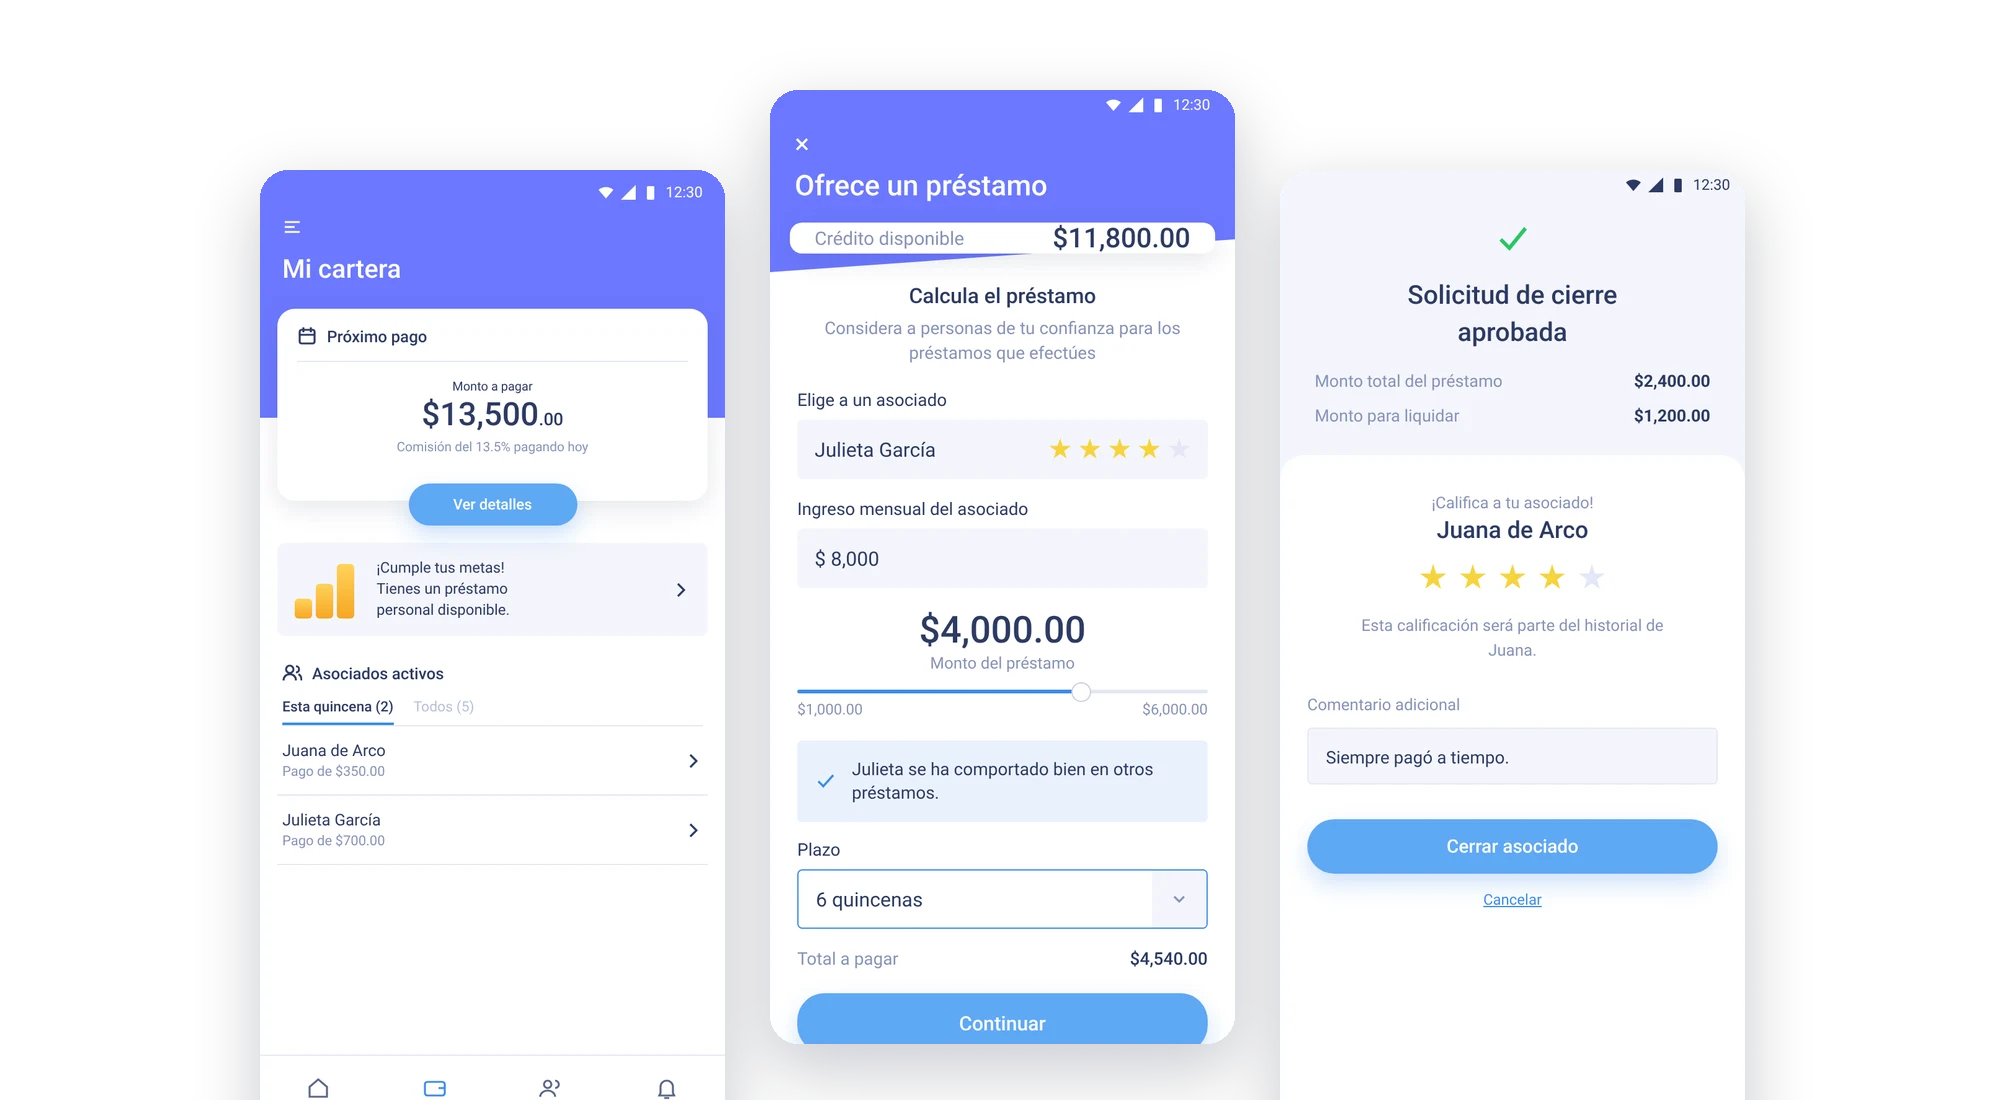
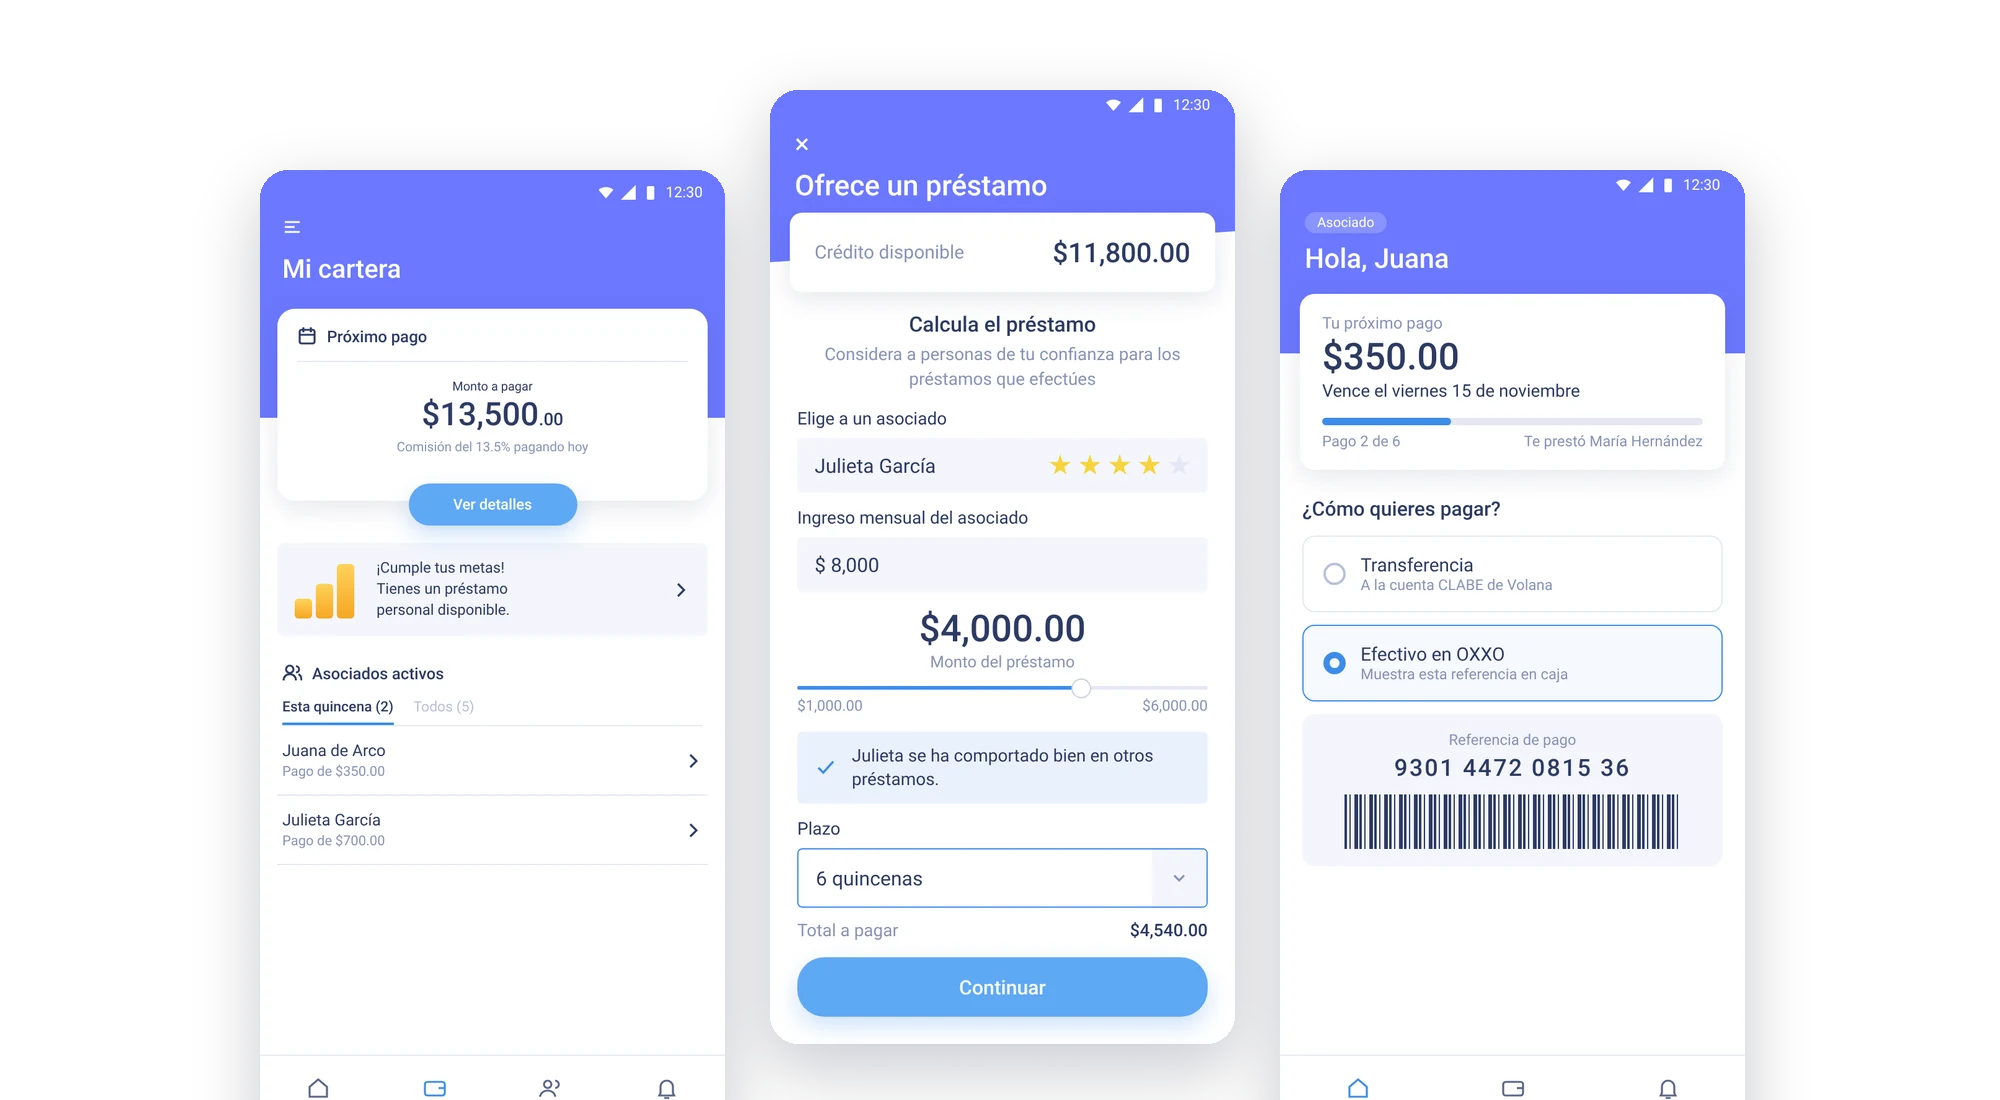
Volana: both roles in the story (lender and associate), associate pay and Veriff sign-up screens, path-up and over-borrowing notes
Claude-Session: https://claude.ai/code/session_014oW9rryPzLSdmVNbG2KxAd

diff --git a/case-studies/volana/index.html b/case-studies/volana/index.html
@@ -51,7 +51,7 @@
     <main id="main" class="cs-main" tabindex="-1">
 
       <div class="cs-hero">
-        <img src="img/hero.webp" width="2000" height="1100" alt="Three Volana screens: the borrower’s wallet, offering a loan to a member of the circle, and rating a member when a loan closes.">
+        <img src="img/hero.webp" width="2000" height="1100" alt="Three Volana screens: the lender’s wallet, offering a loan to an associate, and an associate’s next payment with an OXXO reference.">
       </div>
 
       <!-- 01. OVERVIEW -->
@@ -89,31 +89,31 @@
         <h2 class="cs-title" id="challenge" tabindex="-1">Every payment was a trip with cash</h2>
         <div class="cs-intro">
           <p class="cs-lead">The risk wasn’t one trip. It was a daily route.</p>
-          <p>A borrower took out a loan of around MXN 20,000 and shared it with people they trusted, their credit circle. Then they collected each payment themselves. In focus groups we learned that some spent the whole day on public transport, picking up cash from their circle and a new member’s documents to sign them up at the branch.</p>
+          <p>Volana lent around MXN 20,000 to one person, who shared it with people they trusted: their credit circle of associates. That lender then collected each payment themselves. In focus groups we learned that some spent the whole day on public transport, picking up cash from their associates and a new associate’s documents to sign them up at the branch.</p>
         </div>
 
         <hr class="cs-rule cs-rule--dotted">
 
         <div class="cs-problem">
           <h3 class="cs-label">The problem</h3>
-          <p class="cs-lead">How might we keep borrowers safe and let new customers join, without anyone carrying cash or documents across town?</p>
+          <p class="cs-lead">How might we keep lenders and their associates safe, and let new people join, without anyone carrying cash or documents across town?</p>
         </div>
 
         <figure class="vo-journey" aria-labelledby="journey-title">
           <figcaption>
-            <h3 class="cs-label" id="journey-title">The journey before the app</h3>
-            <p>From focus groups with borrowers: what each step needed, how it felt, and what the app changed.</p>
+            <h3 class="cs-label" id="journey-title">The lender’s journey before the app</h3>
+            <p>From focus groups: what each step needed from the person in the middle, how it felt, and what the app changed.</p>
           </figcaption>
           <div class="vo-journey__grid">
             <div class="vo-journey__rows" aria-hidden="true"><span>Need</span><span>Feeling</span><span>Pain point</span><span>With the app</span></div>
             <svg class="vo-journey__curve" viewBox="0 0 500 100" preserveAspectRatio="none" aria-hidden="true"><polyline points="50,67.5 150,32.5 250,85 350,67.5 450,15" /></svg>
             <ol>
             <li style="--level: 2">
-              <h4 class="vo-journey__stage"><span aria-hidden="true">01</span> Sign up a member</h4>
+              <h4 class="vo-journey__stage"><span aria-hidden="true">01</span> Sign up an associate</h4>
               <dl>
                 <div class="vo-journey__need"><dt>Need</dt><dd>Add someone they trust to their credit circle.</dd></div>
                 <div class="vo-journey__feel"><dt>Feeling</dt><dd><span class="vo-journey__emoji" aria-hidden="true">😟</span>Worried</dd></div>
-                <div class="vo-journey__pain"><dt>Pain point</dt><dd>Carrying the new member’s IDs and papers to the branch by bus.</dd></div>
+                <div class="vo-journey__pain"><dt>Pain point</dt><dd>Carrying the new associate’s IDs and papers to the branch by bus.</dd></div>
                 <div class="vo-journey__change"><dt>With the app</dt><dd>Identity confirmed with Veriff, from home.</dd></div>
               </dl>
             </li>
@@ -123,16 +123,16 @@
                 <div class="vo-journey__need"><dt>Need</dt><dd>Decide how much to lend, and to whom.</dd></div>
                 <div class="vo-journey__feel"><dt>Feeling</dt><dd><span class="vo-journey__emoji" aria-hidden="true">🙂</span>Confident</dd></div>
                 <div class="vo-journey__pain"><dt>Pain point</dt><dd>Only memory and word of mouth to judge who pays well.</dd></div>
-                <div class="vo-journey__change"><dt>With the app</dt><dd>Each member’s rating and track record next to the amount.</dd></div>
+                <div class="vo-journey__change"><dt>With the app</dt><dd>Each associate’s rating and track record next to the amount.</dd></div>
               </dl>
             </li>
             <li style="--level: 1">
               <h4 class="vo-journey__stage"><span aria-hidden="true">03</span> Collect</h4>
               <dl>
-                <div class="vo-journey__need"><dt>Need</dt><dd>Get each member’s payment on time.</dd></div>
+                <div class="vo-journey__need"><dt>Need</dt><dd>Get each associate’s payment on time.</dd></div>
                 <div class="vo-journey__feel"><dt>Feeling</dt><dd><span class="vo-journey__emoji" aria-hidden="true">😩</span>Exhausted</dd></div>
                 <div class="vo-journey__pain"><dt>Pain point</dt><dd>A whole day on public transport, house to house, carrying cash.</dd></div>
-                <div class="vo-journey__change"><dt>With the app</dt><dd>Members pay by transfer or at OXXO; the wallet shows who paid.</dd></div>
+                <div class="vo-journey__change"><dt>With the app</dt><dd>Associates pay by transfer or at OXXO; the wallet shows who paid.</dd></div>
               </dl>
             </li>
             <li style="--level: 2">
@@ -150,7 +150,7 @@
                 <div class="vo-journey__need"><dt>Need</dt><dd>Close it, and decide whether to lend again.</dd></div>
                 <div class="vo-journey__feel"><dt>Feeling</dt><dd><span class="vo-journey__emoji" aria-hidden="true">😌</span>Relieved</dd></div>
                 <div class="vo-journey__pain"><dt>Pain point</dt><dd>No record of who paid well to carry into the next loan.</dd></div>
-                <div class="vo-journey__change"><dt>With the app</dt><dd>A rating that becomes part of the member’s history.</dd></div>
+                <div class="vo-journey__change"><dt>With the app</dt><dd>A rating that becomes part of the associate’s history.</dd></div>
               </dl>
             </li>
             </ol>
@@ -163,18 +163,20 @@
       <section class="cs-section" aria-labelledby="decisions">
         <p class="cs-eyebrow cs-eyebrow--dot">03. Key decisions</p>
         <h2 class="cs-title" id="decisions" tabindex="-1">Change the trip, keep the habit</h2>
-        <p class="cs-sub">I led workshops with developers and legal to find what was viable for each feature, then tested high-fidelity prototypes with borrowers before development.</p>
+        <p class="cs-sub">I led workshops with developers and legal to find what was viable for each feature, then tested high-fidelity prototypes with lenders and associates before development.</p>
 
         <article class="cs-decision">
           <div class="cs-decision__text">
-            <p class="cs-label">01. Design for both sides of the loan</p>
-            <h3>Who paid, and what’s still owed.</h3>
-            <p>The borrower who collected payments and the people who paid them needed different things. The borrower needed to see who had paid and what was still owed. Payers needed to know how much and when.</p>
-            <p>So the wallet opens on the next payment, with the members of the circle who owe this fortnight right below it.</p>
+            <p class="cs-label">01. One app, two roles</p>
+            <h3>The lender tracks, the associate pays.</h3>
+            <p>Lenders and associates used the same app and signed in by role, because they needed different things. The lender needed to see who had paid and what was still owed. The associate needed to know how much and when, and a way to pay without a trip.</p>
+            <p>So the lender’s wallet opens on their next payment to Volana, with the associates who owe this fortnight below it. The associate’s home opens on what they owe, and two ways to pay: a bank transfer, or cash at any OXXO store with a reference. Not everyone used a bank account, so cash had to stay an option.</p>
             <p class="cs-chip"><span>Based on</span> Focus groups</p>
           </div>
-          <figure class="cs-decision__media cs-decision__media--phone">
-            <img src="img/wallet.webp" width="750" height="1540" alt="“Mi cartera”: the next payment of $13,500.00 with a “Ver detalles” button, a personal loan offer, and the active members who pay this fortnight, Juana de Arco ($350.00) and Julieta García ($700.00).">
+          <figure class="cs-decision__media vo-pair">
+            <img src="img/wallet.webp" width="750" height="1540" alt="Lender, “Mi cartera”: the next payment of $13,500.00, a personal loan offer, and the associates who pay this fortnight, Juana de Arco ($350.00) and Julieta García ($700.00).">
+            <img src="img/pay.webp" width="750" height="1540" alt="Associate, “Hola, Juana”: next payment of $350.00 due Friday, November 15, payment 2 of 6, lent by María Hernández, with cash at OXXO selected and a payment reference with a barcode.">
+            <figcaption>Left, the lender. Right, the associate.</figcaption>
           </figure>
         </article>
 
@@ -185,11 +187,11 @@
             <p class="cs-label">02. Make trust visible</p>
             <h3>Lend to people you know, with their track record.</h3>
             <p>Volana’s loans already ran on trust between people who know each other. The app didn’t replace that judgment; it backed it up with history.</p>
-            <p>When a borrower offers a loan to a member, they see the member’s rating and whether they’ve paid well before, next to the amount and the term.</p>
+            <p>When a lender offers a loan to an associate, they see the associate’s rating and whether they’ve paid well before, next to the amount and the term.</p>
             <p class="cs-chip"><span>Based on</span> Focus groups · Legal</p>
           </div>
           <figure class="cs-decision__media cs-decision__media--phone">
-            <img src="img/offer.webp" width="750" height="1540" alt="“Ofrece un préstamo”: $11,800.00 of available credit, Julieta García chosen with a four-star rating, a $4,000.00 loan on a slider, the note “Julieta se ha comportado bien en otros préstamos”, and a term of 6 quincenas.">
+            <img src="img/offer.webp" width="750" height="1540" alt="“Ofrece un préstamo”: $11,800.00 of available credit, the associate Julieta García chosen with a four-star rating, a $4,000.00 loan on a slider, the note “Julieta se ha comportado bien en otros préstamos”, and a term of 6 quincenas.">
           </figure>
         </article>
 
@@ -199,20 +201,34 @@
           <div class="cs-decision__text">
             <p class="cs-label">03. Reward on-time payment</p>
             <h3>Good habits, made visible.</h3>
-            <p>We used behavioral economics: when a loan closes, the borrower rates the member, and that rating becomes part of their history. Paying on time builds a reputation people can see.</p>
+            <p>We used behavioral economics: when a loan closes, the lender rates the associate, and that rating becomes part of their history. Paying on time builds a reputation people can see.</p>
             <p class="cs-chip"><span>Based on</span> Behavioral economics</p>
           </div>
           <figure class="cs-decision__media cs-decision__media--phone">
-            <img src="img/rate.webp" width="750" height="1540" alt="“Solicitud de cierre aprobada”: a $2,400.00 loan with $1,200.00 to settle, and a card to rate the member Juana de Arco with four stars and the comment “Siempre pagó a tiempo”.">
+            <img src="img/rate.webp" width="750" height="1540" alt="“Solicitud de cierre aprobada”: a $2,400.00 loan with $1,200.00 to settle, and a card to rate the associate Juana de Arco with four stars and the comment “Siempre pagó a tiempo”.">
+          </figure>
+        </article>
+
+        <hr class="cs-rule cs-rule--dotted">
+
+        <article class="cs-decision cs-decision--reverse">
+          <div class="cs-decision__text">
+            <p class="cs-label">04. Remove the branch from sign-up</p>
+            <h3>No documents carried anywhere.</h3>
+            <p>Everyone who joined, lender or associate, verified their identity in the app with Veriff: a photo of their INE and a selfie. Branch staff uploaded existing customers’ data beforehand, so they only had to confirm it.</p>
+            <p>The trip with someone else’s papers, the riskiest part of signing up, disappeared.</p>
+            <p class="cs-chip"><span>Based on</span> Legal requirements</p>
+          </div>
+          <figure class="cs-decision__media cs-decision__media--phone">
+            <img src="img/verify.webp" width="750" height="1540" alt="Sign-up, “Verifica tu identidad”: step 2 of 3, the INE photo done, a selfie next, “Verificación segura con Veriff” and a “Tomar selfie” button.">
           </figure>
         </article>
 
         <hr class="cs-rule cs-rule--dotted">
 
         <ul class="cs-lessons">
-          <li><h3>Meet people where the cash is</h3><p>Not everyone used a bank account, so payments worked by transfer and in cash at OXXO stores.</p></li>
           <li><h3>Design for Wi-Fi, not mobile data</h3><p>Most people went online at home. The app used little data, and every notification made sense on its own.</p></li>
-          <li><h3>Remove the branch from sign-up</h3><p>Existing customers only confirmed their identity with Veriff. New members joined without carrying documents.</p></li>
+          <li><h3>Plan the path up</h3><p>Next, we planned to open circles: after building a history, associates could join other circles and later offer loans themselves.</p></li>
         </ul>
         <p class="cs-note">Screens recreated from the 2019 designs.</p>
         <hr class="cs-rule">
@@ -224,7 +240,7 @@
         <h2 class="cs-title" id="reflection" tabindex="-1">Measure the change, not just the download</h2>
         <ul class="cs-lessons">
           <li><h3>Define success first</h3><p>We tracked adoption only. I’d agree on digital payments, on-time rate and trips avoided before designing.</p></li>
-          <li><h3>Motivate, don’t expose</h3><p>On-time payers earned a rating. I’d test that comparison never shames people who are late.</p></li>
+          <li><h3>Motivate, don’t expose</h3><p>On-time payers earned a rating. I’d test that it never shames people who are late, or pushes anyone to borrow beyond their means.</p></li>
         </ul>
         <hr class="cs-rule">
         <p class="cs-next"><a href="../../#work" data-umami-event="Back to work" data-umami-event-from="end">Back to work</a></p>

diff --git a/case-studies/volana/volana.css b/case-studies/volana/volana.css
@@ -45,3 +45,7 @@
   .vo-journey__curve polyline { fill: none; stroke: var(--cs-accent-line); stroke-width: 2; stroke-dasharray: 4 4; vector-effect: non-scaling-stroke; }
   .vo-journey__change { border-top: 1px dashed var(--cs-line, #DDD9CC); }
 }
+/* Decision 01: the lender and the associate side by side */
+.vo-pair { display: grid; grid-template-columns: repeat(2, minmax(0, 220px)); justify-content: center; gap: 20px; }
+.vo-pair img { border-radius: 16px; box-shadow: 0 12px 40px rgba(45, 58, 99, .14), 0 0 0 1px rgba(45, 58, 99, .06); }
+.vo-pair figcaption { grid-column: 1 / -1; text-align: center; }
